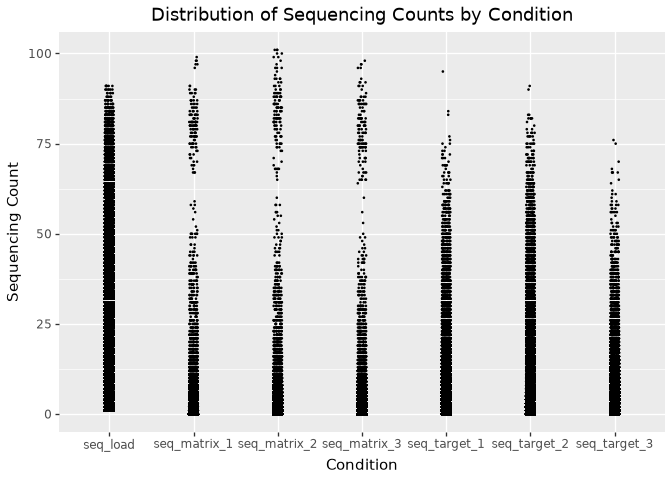
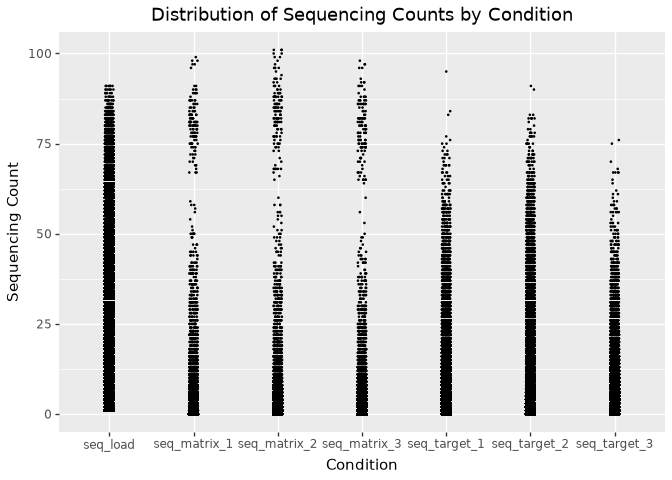
Build site from Quarto source

diff --git a/docs/blogs/DEL_Model/DEL_modelling_Part_2.html b/docs/blogs/DEL_Model/DEL_modelling_Part_2.html
@@ -189,6 +189,7 @@ window.Quarto = {
   <ul class="collapse">
   <li><a href="#state-the-causal-assumptions-dag-first" id="toc-state-the-causal-assumptions-dag-first" class="nav-link" data-scroll-target="#state-the-causal-assumptions-dag-first">State the causal assumptions (DAG first)</a></li>
   </ul></li>
+  <li><a href="#references" id="toc-references" class="nav-link" data-scroll-target="#references">References:</a></li>
   </ul>
 </nav>
     </div>
@@ -269,7 +270,7 @@ Compare candidate models using posterior predictive checks and, where useful, WA
 Once a model is both causally coherent and predictively adequate, use the posterior to interpret target-binding propensity, uncertainty, and causal contrasts justified by the DAG.</p></li>
 </ol>
 <section id="state-the-causal-assumptions-dag-first" class="level3">
-<h3 class="anchored">State the causal assumptions (DAG first)</h3>
+<h3 class="anchored" data-anchor-id="state-the-causal-assumptions-dag-first">State the causal assumptions (DAG first)</h3>
 <p>The first step in the Bayesian workflow is to make the causal assumptions explicit as a directed acyclic graph (DAG). In our DAG, <strong>an observation is represented as a square node</strong>, <strong>a latent variable (unobserved) as a circle</strong>, and <strong>causal relationships are represented as directed edges between nodes</strong>. We build the DAG incrementally, starting from what is measured and then introducing the latent quantities needed to explain it.</p>
 <p>For a single compound, the experiment yields three observed counts:</p>
 <ul>
@@ -341,7 +342,7 @@ A DAG does not guarantee valid inference. It only specifies the assumed causal s
 </div>
 </div>
 <section id="which-variables-should-and-should-not-be-conditioned-on" class="level4">
-<h4 class="anchored">Which variables should and should not be conditioned on?</h4>
+<h4 class="anchored" data-anchor-id="which-variables-should-and-should-not-be-conditioned-on">Which variables should and should not be conditioned on?</h4>
 <p>Our goal is to infer the target-binding propensity <span style="color:#bf616a"><span class="math inline">\(s\)</span></span>. To do this, we need to understand how information about <span style="color:#bf616a"><span class="math inline">\(s\)</span></span> flows through the DAG. This is where the concepts of <strong>path</strong>, <strong>open and closed paths</strong>, <strong>four elemental confounds</strong> (as described by McElreath - second edition of statistical rethinking, Figure 6.6) come in.</p>
 <section id="what-is-a-path-in-a-dag" class="level5">
 <h5 class="anchored" data-anchor-id="what-is-a-path-in-a-dag">What is a path in a DAG?</h5>
@@ -468,7 +469,7 @@ Figure&nbsp;5: Fork example DAG.
 </figcaption>
 </figure>
 </div>
-<div id="39656b99" class="cell" data-execution_count="1">
+<div id="f65ed839" class="cell" data-execution_count="1">
 <details class="code-fold">
 <summary>Code</summary>
 <div class="code-copy-outer-scaffold"><div class="sourceCode cell-code" id="cb1"><pre class="sourceCode python code-with-copy"><code class="sourceCode python"><span id="cb1-1"><a href="#cb1-1" aria-hidden="true" tabindex="-1"></a><span class="im">import</span> numpy <span class="im">as</span> np</span>
@@ -571,7 +572,7 @@ Figure&nbsp;5: Fork example DAG.
 <h5 class="anchored" data-anchor-id="summary-of-the-simulated-data">Summary of the simulated data</h5>
 <p>Let’s plot the simulated data to see the associations between the variables.</p>
 <p>Starting with the raw association between Umbrella and GettingWet:</p>
-<div id="73e998bf" class="cell" data-execution_count="2">
+<div id="207b3a63" class="cell" data-execution_count="2">
 <details class="code-fold">
 <summary>Code</summary>
 <div class="code-copy-outer-scaffold"><div class="sourceCode cell-code" id="cb2"><pre class="sourceCode python code-with-copy"><code class="sourceCode python"><span id="cb2-1"><a href="#cb2-1" aria-hidden="true" tabindex="-1"></a><span class="im">import</span> pandas <span class="im">as</span> pd</span>
@@ -651,7 +652,7 @@ Figure&nbsp;5: Fork example DAG.
 </div>
 </div>
 <p>And, stratified association by Weather, that show what happens after blocking the backdoor path:</p>
-<div id="bec71f7e" class="cell" data-execution_count="3">
+<div id="ab010378" class="cell" data-execution_count="3">
 <details class="code-fold">
 <summary>Code</summary>
 <div class="code-copy-outer-scaffold"><div class="sourceCode cell-code" id="cb3"><pre class="sourceCode python code-with-copy"><code class="sourceCode python"><span id="cb3-1"><a href="#cb3-1" aria-hidden="true" tabindex="-1"></a>strat_counts <span class="op">=</span> (</span>
@@ -755,7 +756,7 @@ Figure&nbsp;6: Association between carrying an umbrella and getting wet.
 <p>The priors are weakly informative Normal(0, 2) distributions on each coefficient, which keep the logit-scale effects within a plausible range (<span class="math inline">\(\pm 4\)</span>) while placing no strong prior preference on direction:</p>
 <p><span class="math display">\[ \alpha \sim \text{Normal}(0, 2), \quad \beta_{\text{umbrella}} \sim \text{Normal}(0, 2), \quad \beta_{\text{weather}} \sim \text{Normal}(0, 2) \]</span></p>
 <p>Both models are fitted via NUTS (No-U-Turn Sampler) using Pyro. The key quantity of interest is <span class="math inline">\(\beta_{\text{umbrella}}\)</span>: comparing its posterior between the two models shows how much of the raw umbrella–wet association disappears once weather is held fixed.</p>
-<div id="afd0855b" class="cell" data-execution_count="4">
+<div id="e62c69fe" class="cell" data-execution_count="4">
 <details class="code-fold">
 <summary>Code</summary>
 <div class="code-copy-outer-scaffold"><div class="sourceCode cell-code" id="cb4"><pre class="sourceCode python code-with-copy"><code class="sourceCode python"><span id="cb4-1"><a href="#cb4-1" aria-hidden="true" tabindex="-1"></a><span class="im">import</span> warnings</span>
@@ -1226,7 +1227,7 @@ Figure&nbsp;9: One-sided sensitivity analysis: higher assumed hidden bias shifts
 </figcaption>
 </figure>
 </div>
-<div id="002234fa" class="cell" data-execution_count="5">
+<div id="563d1ba4" class="cell" data-execution_count="5">
 <details class="code-fold">
 <summary>Code</summary>
 <div class="code-copy-outer-scaffold"><div class="sourceCode cell-code" id="cb6"><pre class="sourceCode python code-with-copy"><code class="sourceCode python"><span id="cb6-1"><a href="#cb6-1" aria-hidden="true" tabindex="-1"></a><span class="im">import</span> numpy <span class="im">as</span> np</span>
@@ -1368,7 +1369,7 @@ Figure&nbsp;10: Sensitivity analysis for umbrella example
 <p>For each observed pair <span class="math inline">\((U_i, G_i)\)</span>, how likely is this observation if the hidden weather state was dry, and how likely is it if the hidden weather state was rainy? It then averages those two possibilities according to the estimated probability of each weather state.</p>
 <p>Because Weather is never observed, the model must infer it entirely from the joint pattern of Umbrella and GettingWet. That means the <strong>result depends strongly on the assumed model form, the priors, and the assumption that a binary latent Weather variable is a reasonable representation of the hidden common cause</strong>.</p>
 <p><span class="highlight-key-point">So the latent variable model gives us a more mechanistic version of the hidden-confounding story, but it is not assumption-free. The sensitivity analysis is weaker but more transparent; the latent variable model is more structural but more model-dependent.</span></p>
-<div id="de209ea6" class="cell" data-execution_count="6">
+<div id="87ce261a" class="cell" data-execution_count="6">
 <details class="code-fold">
 <summary>Code</summary>
 <div class="code-copy-outer-scaffold"><div class="sourceCode cell-code" id="cb7"><pre class="sourceCode python code-with-copy"><code class="sourceCode python"><span id="cb7-1"><a href="#cb7-1" aria-hidden="true" tabindex="-1"></a><span class="kw">def</span> latent_weather_model(umbrella, wet):</span>
@@ -1748,7 +1749,7 @@ findfont: Generic family 'serif' not found because none of the following familie
 <div class="callout-body-container callout-body">
 <p>The weak identification we saw above is not unique to latent-variable models. It belongs to a broader class of difficulties that arise whenever the data and model structure are not informative enough to pin down a parameter’s value. This can happen because of a modelling mistake, but it also occurs in perfectly correct models.</p>
 <p>A practical signal of weak identification is that the posterior looks a lot like the prior. If the data carry little information about a parameter, Bayesian updating has little to update, and the posterior will closely track whatever prior we started with. Comparing the two is therefore a useful diagnostic: a posterior that remains wide and prior-shaped is not a sign that something went wrong, it is the correct answer to the question we asked. But it is also an invitation to ask a sharper question, <strong>collect more data</strong>, or reconsider whether the parameter is estimable at all given the available evidence.</p>
-<div id="a85de179" class="cell" data-execution_count="7">
+<div id="18025ad6" class="cell" data-execution_count="7">
 <details class="code-fold">
 <summary>Code</summary>
 <div class="code-copy-outer-scaffold"><div class="sourceCode cell-code" id="cb9"><pre class="sourceCode python code-with-copy"><code class="sourceCode python"><span id="cb9-1"><a href="#cb9-1" aria-hidden="true" tabindex="-1"></a>rng_ident <span class="op">=</span> np.random.default_rng(<span class="dv">42</span>)</span>
@@ -2137,7 +2138,7 @@ Figure&nbsp;15: Pipe example DAG.
 <p><span class="math display">\[\text{True total effect of Exercise (Exercise} \rightarrow \text{Blood Pressure)} = 0.5 \times (-2) = -1 \text{ mmHg}\]</span></p>
 <p><span class="math display">\[\text{True direct effect of Exercise (Exercise} \rightarrow \text{Blood Pressure | WeightLoss)} = 0\]</span></p>
 <p><span class="math display">\[\text{True mediated path (WeightLoss} \rightarrow \text{Blood Pressure | Exercise)} = -2 \text{ mmHg per unit}\]</span></p>
-<div id="718623cc" class="cell" data-execution_count="8">
+<div id="32117f97" class="cell" data-execution_count="8">
 <details class="code-fold">
 <summary>Code</summary>
 <div class="code-copy-outer-scaffold"><div class="sourceCode cell-code" id="cb11"><pre class="sourceCode python code-with-copy"><code class="sourceCode python"><span id="cb11-1"><a href="#cb11-1" aria-hidden="true" tabindex="-1"></a><span class="co"># Data-generating process </span></span>
@@ -2212,7 +2213,7 @@ Figure&nbsp;15: Pipe example DAG.
 <section id="summary-of-the-simulated-data-1" class="level5">
 <h5 class="anchored" data-anchor-id="summary-of-the-simulated-data-1">Summary of the simulated data</h5>
 <p>Let’s plot the simulated data to see the associations between the variables.</p>
-<div id="15babe9e" class="cell" data-execution_count="9">
+<div id="eb79b126" class="cell" data-execution_count="9">
 <details class="code-fold">
 <summary>Code</summary>
 <div class="code-copy-outer-scaffold"><div class="sourceCode cell-code" id="cb12"><pre class="sourceCode python code-with-copy"><code class="sourceCode python"><span id="cb12-1"><a href="#cb12-1" aria-hidden="true" tabindex="-1"></a><span class="im">from</span> plotnine <span class="im">import</span> geom_jitter, geom_boxplot, geom_smooth, scale_color_manual, scale_fill_manual, theme_minimal, geom_point</span>
@@ -2321,7 +2322,7 @@ Figure&nbsp;15: Pipe example DAG.
 <p><span class="math display">\[\text{BP}_i \sim \mathcal{N}(\mu_i,\, \sigma)\]</span></p>
 <p>In Model 1, <span class="math inline">\(\beta_{\text{ex}}\)</span> captures the <strong>total effect</strong> of exercise: that is, everything that reaches blood pressure through any path, including through weight loss.</p>
 <p>In Model 2, conditioning on <code>WeightLoss</code> blocks the mediated path, so <span class="math inline">\(\beta_{\text{ex}}\)</span> estimates only the <strong>direct effect</strong> that bypasses the mediator, and <span class="math inline">\(\beta_{\text{wl}}\)</span> isolates the weight-loss-to-blood-pressure relationship.</p>
-<div id="4ca6b4cc" class="cell" data-execution_count="10">
+<div id="cf5c8189" class="cell" data-execution_count="10">
 <details class="code-fold">
 <summary>Code</summary>
 <div class="code-copy-outer-scaffold"><div class="sourceCode cell-code" id="cb13"><pre class="sourceCode python code-with-copy"><code class="sourceCode python"><span id="cb13-1"><a href="#cb13-1" aria-hidden="true" tabindex="-1"></a><span class="co"># Model 1: total effect (no conditioning on WeightLoss) </span></span>
@@ -2357,7 +2358,7 @@ Figure&nbsp;15: Pipe example DAG.
 <span id="cb13-31"><a href="#cb13-31" aria-hidden="true" tabindex="-1"></a>post_direct_pipe <span class="op">=</span> run_pipe_mcmc(direct_effect_model, ex_t, wl_t, bp_t)</span></code></pre></div><button title="Copy to Clipboard" class="code-copy-button"><i class="bi"></i></button></div>
 </details>
 </div>
-<div id="d4a2c1a6" class="cell" data-execution_count="11">
+<div id="5cf58986" class="cell" data-execution_count="11">
 <details class="code-fold">
 <summary>Code</summary>
 <div class="code-copy-outer-scaffold"><div class="sourceCode cell-code" id="cb14"><pre class="sourceCode python code-with-copy"><code class="sourceCode python"><span id="cb14-1"><a href="#cb14-1" aria-hidden="true" tabindex="-1"></a>draws_pipe <span class="op">=</span> {</span>
@@ -2710,7 +2711,7 @@ Figure&nbsp;17: Collider example DAG.
 <span id="cb17-2"><a href="#cb17-2" aria-hidden="true" tabindex="-1"></a>admission_threshold <span class="op">=</span> np.quantile(admission_score, <span class="fl">0.8</span>)</span>
 <span id="cb17-3"><a href="#cb17-3" aria-hidden="true" tabindex="-1"></a>admitted <span class="op">=</span> (admission_score <span class="op">&gt;=</span> admission_threshold).astype(<span class="bu">int</span>)</span></code></pre></div><button title="Copy to Clipboard" class="code-copy-button"><i class="bi"></i></button></div>
 <p>Here is the full population data-generating process with <code>Admitted</code> as a collider:</p>
-<div id="e377a214" class="cell" data-execution_count="12">
+<div id="e05fddd9" class="cell" data-execution_count="12">
 <details class="code-fold">
 <summary>Code</summary>
 <div class="code-copy-outer-scaffold"><div class="sourceCode cell-code" id="cb18"><pre class="sourceCode python code-with-copy"><code class="sourceCode python"><span id="cb18-1"><a href="#cb18-1" aria-hidden="true" tabindex="-1"></a><span class="co"># Full population data-generating process </span></span>
@@ -2788,7 +2789,7 @@ Figure&nbsp;17: Collider example DAG.
 <section id="summary-of-the-simulated-data-2" class="level5">
 <h5 class="anchored" data-anchor-id="summary-of-the-simulated-data-2">Summary of the simulated data</h5>
 <p>Let’s plot the relationship between <code>Smart</code> and <code>Athletic</code> in the full population:</p>
-<div id="9d7504f0" class="cell" data-execution_count="13">
+<div id="94f270a2" class="cell" data-execution_count="13">
 <details class="code-fold">
 <summary>Code</summary>
 <div class="code-copy-outer-scaffold"><div class="sourceCode cell-code" id="cb19"><pre class="sourceCode python code-with-copy"><code class="sourceCode python"><span id="cb19-1"><a href="#cb19-1" aria-hidden="true" tabindex="-1"></a><span class="im">from</span> plotnine <span class="im">import</span> (</span>
@@ -2842,7 +2843,7 @@ Figure&nbsp;17: Collider example DAG.
 </div>
 </div>
 <p>Now suppose we only look at admitted students. This is equivalent to conditioning on the collider <code>Admitted</code>.</p>
-<div id="619b94de" class="cell" data-execution_count="14">
+<div id="71ab5fb7" class="cell" data-execution_count="14">
 <details class="code-fold">
 <summary>Code</summary>
 <div class="code-copy-outer-scaffold"><div class="sourceCode cell-code" id="cb20"><pre class="sourceCode python code-with-copy"><code class="sourceCode python"><span id="cb20-1"><a href="#cb20-1" aria-hidden="true" tabindex="-1"></a><span class="co"># ── Selected sample: admitted students only </span></span>
@@ -2850,7 +2851,7 @@ Figure&nbsp;17: Collider example DAG.
 </details>
 </div>
 <p>Among admitted students, <code>Smart</code> and <code>Athletic</code> are no longer independent:</p>
-<div id="4c8903eb" class="cell" data-execution_count="15">
+<div id="eab3f2b3" class="cell" data-execution_count="15">
 <details class="code-fold">
 <summary>Code</summary>
 <div class="code-copy-outer-scaffold"><div class="sourceCode cell-code" id="cb21"><pre class="sourceCode python code-with-copy"><code class="sourceCode python"><span id="cb21-1"><a href="#cb21-1" aria-hidden="true" tabindex="-1"></a><span class="co"># Calculate the correlation</span></span>
@@ -2920,7 +2921,7 @@ Figure&nbsp;17: Collider example DAG.
 <p><span class="math display">\[\text{Athletic}_i \sim \mathcal{N}(\mu_i,\, \sigma)\]</span></p>
 <p>This model uses the full population but includes the collider as a covariate. The coefficient <span class="math inline">\(\beta_{\text{smart}}\)</span> is now a conditional association: how <code>Athletic</code> changes with <code>Smart</code> among observations with the same value of <code>Admitted</code>, averaged across the admitted and not-admitted strata by the model.</p>
 <p>If the collider logic is correct, the posterior for <span class="math inline">\(\beta_{\text{smart}}\)</span> should move away from zero in the conditioned model, even though <code>Smart</code> has no causal effect on <code>Athletic</code>.</p>
-<div id="3b8b0dce" class="cell" data-execution_count="16">
+<div id="9645c07e" class="cell" data-execution_count="16">
 <details class="code-fold">
 <summary>Code</summary>
 <div class="code-copy-outer-scaffold"><div class="sourceCode cell-code" id="cb22"><pre class="sourceCode python code-with-copy"><code class="sourceCode python"><span id="cb22-1"><a href="#cb22-1" aria-hidden="true" tabindex="-1"></a>smart_full_t <span class="op">=</span> torch.tensor(population_df[<span class="st">"Smart"</span>].values, dtype<span class="op">=</span>torch.float32)</span>
@@ -2958,7 +2959,7 @@ Figure&nbsp;17: Collider example DAG.
 <span id="cb22-33"><a href="#cb22-33" aria-hidden="true" tabindex="-1"></a>post_adjusted_collider <span class="op">=</span> run_collider_mcmc(smart_full_t, athletic_full_t, admitted_full_t)</span></code></pre></div><button title="Copy to Clipboard" class="code-copy-button"><i class="bi"></i></button></div>
 </details>
 </div>
-<div id="02305c98" class="cell" data-execution_count="17">
+<div id="e2f35c1d" class="cell" data-execution_count="17">
 <details class="code-fold">
 <summary>Code</summary>
 <div class="code-copy-outer-scaffold"><div class="sourceCode cell-code" id="cb23"><pre class="sourceCode python code-with-copy"><code class="sourceCode python"><span id="cb23-1"><a href="#cb23-1" aria-hidden="true" tabindex="-1"></a>draws_collider <span class="op">=</span> {</span>
@@ -3259,7 +3260,7 @@ Figure&nbsp;19: Descendant example DAG.
 </figcaption>
 </figure>
 </div>
-<div id="b3c85487" class="cell" data-execution_count="18">
+<div id="af9c822b" class="cell" data-execution_count="18">
 <details class="code-fold">
 <summary>Code</summary>
 <div class="code-copy-outer-scaffold"><div class="sourceCode cell-code" id="cb25"><pre class="sourceCode python code-with-copy"><code class="sourceCode python"><span id="cb25-1"><a href="#cb25-1" aria-hidden="true" tabindex="-1"></a><span class="co"># Descendant example: database membership as a noisy proxy for admission</span></span>
@@ -3365,6 +3366,10 @@ Figure&nbsp;19: Descendant example DAG.
 </div>
 </div>
 </div>
+</div>
+</div>
+</div>
+</section>
 <section id="how-do-path-structures-guide-conditioning-decisions-for-s" class="level5">
 <h5 class="anchored" data-anchor-id="how-do-path-structures-guide-conditioning-decisions-for-s">How do path structures guide conditioning decisions for <span style="color:#bf616a"><span class="math inline">\(s\)</span></span>?</h5>
 <p>Here, one important role of the DAG is to help us decide which variables it makes sense to condition on, and which ones we should avoid conditioning on, when estimating the target-binding propensity <span style="color:#bf616a"><span class="math inline">\(s\)</span></span>. To do this, we follow the recipe suggested by McElreath in Chapter 6 of the second edition of <em>Statistical Rethinking</em>:</p>
@@ -3378,6 +3383,9 @@ Figure&nbsp;19: Descendant example DAG.
 <p>For the DEL model, this means we should not ask only whether a variable is predictive of <span style="color:#d08770"><span class="math inline">\(C_t\)</span></span>. We should ask what role it plays in the DAG. A variable can be predictive because it is a cause, a mediator, a confounder, or a collider. These cases imply different modelling choices.</p>
 <p><span class="highlight-key-point">The DAG turns variable selection into a causal question: condition on variables that block unwanted backdoor paths, avoid conditioning on colliders, and condition on mediators only when the target estimand is a direct effect.</span></p>
 </section>
+</section>
+</section>
+</section>
 <section id="references" class="level2">
 <h2 class="anchored" data-anchor-id="references">References:</h2>
 <ul>
@@ -3388,13 +3396,6 @@ Figure&nbsp;19: Descendant example DAG.
 </ul>
 
 
-</section>
-</div>
-</div>
-</div>
-</section>
-</section>
-</section>
 </section>
 
 </main> <!-- /main -->

diff --git a/docs/blogs/DEL_Model/DEL_modelling_Part_1.html b/docs/blogs/DEL_Model/DEL_modelling_Part_1.html
@@ -223,7 +223,7 @@ window.Quarto = {
 </header>
 
 
-<div id="754a57d4" class="cell" data-execution_count="1">
+<div id="031d73c4" class="cell" data-execution_count="1">
 <details class="code-fold">
 <summary>Code</summary>
 <div class="code-copy-outer-scaffold"><div class="sourceCode cell-code" id="cb1"><pre class="sourceCode python code-with-copy"><code class="sourceCode python"><span id="cb1-1"><a href="#cb1-1" aria-hidden="true" tabindex="-1"></a><span class="im">import</span> warnings</span>
@@ -761,7 +761,7 @@ X_i \sim \text{Binomial}(N,p_i)\]</span></p>
 <p><span class="math display">\[p^{(N)} \sim \text{Beta}(a, b^{(N)})\]</span></p>
 <p>The superscript <span class="math inline">\((N)\)</span> does <strong>not</strong> index a barcode. It indicates that we are considering a whole sequence of random variables, one for each sequencing depth <span class="math inline">\(N\)</span>.</p>
 <p>So when <span class="math inline">\(N\)</span> changes, the prior changes as well. In particular, the second Beta parameter grows with <span class="math inline">\(N\)</span>, which pushes typical values of <span class="math inline">\(p^{(N)}\)</span> toward zero. This is the scaling we want in a rare-event setting, where each individual barcode should occupy only a tiny fraction of the total reads even as the total read depth becomes large.</p>
-<div id="a64dcffc" class="cell" data-execution_count="2">
+<div id="1aac8646" class="cell" data-execution_count="2">
 <details class="code-fold">
 <summary>Code</summary>
 <div class="code-copy-outer-scaffold"><div class="sourceCode cell-code" id="cb2"><pre class="sourceCode python code-with-copy"><code class="sourceCode python"><span id="cb2-1"><a href="#cb2-1" aria-hidden="true" tabindex="-1"></a><span class="im">import</span> numpy <span class="im">as</span> np</span>
@@ -861,7 +861,7 @@ X_i \sim \text{Binomial}(N,p_i)\]</span></p>
 <p>So the scaling is not arbitrary. It makes the prior on <span class="math inline">\(p^{(N)}\)</span> shift toward smaller probabilities as sequencing depth increases, while the induced prior on <span class="math inline">\(\lambda^{(N)} = Np^{(N)}\)</span> stays on a stable, interpretable count scale.</p>
 <p><span class="highlight-key-point">This is why the scaling <span class="math inline">\(b^{(N)} = \eta N\)</span> matters: it prevents the implied count scale from blowing up with <span class="math inline">\(N\)</span> and sets up the next derivation, where the prior on <span class="math inline">\(p^{(N)}\)</span> becomes a Gamma prior on <span class="math inline">\(\lambda^{(N)}\)</span>.</span></p>
 <p>The plot below is meant only to visualise this scaling. For the concrete example above with <span class="math inline">\(a = 2\)</span> and <span class="math inline">\(\eta = 1\)</span>, it compares the priors induced by two sequencing depths, <span class="math inline">\(N = 10^3\)</span> and <span class="math inline">\(N = 10^6\)</span>. As depth increases, the Beta density shifts sharply toward smaller values of <span class="math inline">\(p\)</span>, so that the corresponding Poisson-scale quantity <span class="math inline">\(\lambda^{(N)} = Np^{(N)}\)</span> remains on a stable count scale rather than diverging with <span class="math inline">\(N\)</span>.</p>
-<div id="f6b61e4c" class="cell" data-execution_count="3">
+<div id="a5c15637" class="cell" data-execution_count="3">
 <details class="code-fold">
 <summary>Code</summary>
 <div class="code-copy-outer-scaffold"><div class="sourceCode cell-code" id="cb3"><pre class="sourceCode python code-with-copy"><code class="sourceCode python"><span id="cb3-1"><a href="#cb3-1" aria-hidden="true" tabindex="-1"></a><span class="im">import</span> numpy <span class="im">as</span> np</span>
@@ -1061,7 +1061,7 @@ d\lambda.\]</span></p>
 <p>For a concrete example, we use data from the <a href="https://arxiv.org/abs/2410.08938">KinDEL paper</a>. You can learn more about the resource <a href="https://icml.cc/virtual/2025/poster/45034">here</a> and access the data <a href="https://github.com/insitro/kindel">here</a>.</p>
 <p>KinDEL is one of the first large public DEL datasets designed to support machine-learning research in drug discovery. The resource contains approximately <strong>81 million small molecules</strong> screened against <strong>two kinase targets (MAPK14 and DDR1)</strong>, with accompanying benchmark tasks aimed at predictive hit identification and DEL denoising. Beyond raw count data, KinDEL also includes <strong>replicate experiments</strong> and biophysical validation data (on-DNA and off-DNA assays), making it useful for studying how well models recover true binding signals from noisy DEL measurements.</p>
 <p>We load only a subset of the data to keep the example simple and fast to run. In particular, we use the data for the DDR1 target from the first split.</p>
-<div id="22ea65b9" class="cell" data-execution_count="4">
+<div id="c3340265" class="cell" data-execution_count="4">
 <details class="code-fold">
 <summary>Code</summary>
 <div class="code-copy-outer-scaffold"><div class="sourceCode cell-code" id="cb4"><pre class="sourceCode python code-with-copy"><code class="sourceCode python"><span id="cb4-1"><a href="#cb4-1" aria-hidden="true" tabindex="-1"></a><span class="co"># data = pd.read_parquet("data/df_train_ddr1_split1_random.parquet")</span></span>
@@ -1207,7 +1207,7 @@ d\lambda.\]</span></p>
 <section id="basic-exploratory-data-analysis-eda" class="level3">
 <h3 class="anchored" data-anchor-id="basic-exploratory-data-analysis-eda">Basic Exploratory Data Analysis (EDA)</h3>
 <p>We begin with a simple view of sequencing counts by condition.</p>
-<div id="696f5dca" class="cell" data-execution_count="5">
+<div id="7c499eef" class="cell" data-execution_count="5">
 <details class="code-fold">
 <summary>Code</summary>
 <div class="code-copy-outer-scaffold"><div class="sourceCode cell-code" id="cb5"><pre class="sourceCode python code-with-copy"><code class="sourceCode python"><span id="cb5-1"><a href="#cb5-1" aria-hidden="true" tabindex="-1"></a>data_seq_counts <span class="op">=</span> data.melt(id_vars<span class="op">=</span>[<span class="st">'molecule_hash'</span>], value_vars<span class="op">=</span>[<span class="st">'seq_target_1'</span>, <span class="st">'seq_target_2'</span>, <span class="st">'seq_target_3'</span>, <span class="st">'seq_matrix_1'</span>, <span class="st">'seq_matrix_2'</span>, <span class="st">'seq_matrix_3'</span>, <span class="st">'seq_load'</span>], value_name<span class="op">=</span><span class="st">'seq_count'</span>, var_name<span class="op">=</span><span class="st">'condition'</span>)</span>
@@ -1287,7 +1287,7 @@ Figure&nbsp;5: Most molecules have very low counts, indicating sparse DEL data.
 </div>
 </div>
 </div>
-<div id="ad93394e" class="cell" data-execution_count="6">
+<div id="2a3b58a6" class="cell" data-execution_count="6">
 <details class="code-fold">
 <summary>Code</summary>
 <div class="code-copy-outer-scaffold"><div class="sourceCode cell-code" id="cb6"><pre class="sourceCode python code-with-copy"><code class="sourceCode python"><span id="cb6-1"><a href="#cb6-1" aria-hidden="true" tabindex="-1"></a><span class="co"># Plot ECDF faceted by condition, and add vertical line at the 85% quantile for each</span></span>
@@ -1388,7 +1388,7 @@ Figure&nbsp;7: Discrete horizontal bands. The plot shows how discrete, integer s
 </figure>
 </div>
 <p>We next plot the frequency of each sequencing count value (<span class="math inline">\(\leq 20\)</span>) for all conditions. This directly shows why the bands appear: thousands of molecules share the same low integer count.</p>
-<div id="6405fe31" class="cell" data-execution_count="7">
+<div id="7219a576" class="cell" data-execution_count="7">
 <details class="code-fold">
 <summary>Code</summary>
 <div class="code-copy-outer-scaffold"><div class="sourceCode cell-code" id="cb7"><pre class="sourceCode python code-with-copy"><code class="sourceCode python"><span id="cb7-1"><a href="#cb7-1" aria-hidden="true" tabindex="-1"></a><span class="co"># Using the already-melted data_ecdf from earlier</span></span>
@@ -1445,7 +1445,7 @@ Figure&nbsp;9: Each experimental selection (both <em>matrix</em> and <em>target<
 </figure>
 </div>
 <p>To assess reproducibility, we compare replicate-level sequencing proportions for both matrix and target selections. For each replicate, molecule counts are normalised by the replicate total and then compared pairwise. These comparisons are summarised in three complementary ways: scatter plots (<a href="#fig-replicate-scatter" class="quarto-xref">Figure&nbsp;10</a>) show pattern shape and deviation from the <span class="math inline">\(y=x\)</span> line, a Spearman correlation heatmap (<a href="#fig-replicate-heatmap" class="quarto-xref">Figure&nbsp;11</a>) provides a compact quantitative summary of pairwise agreement, and a replicate-support plot (<a href="#fig-replicate-support" class="quarto-xref">Figure&nbsp;12</a>) shows how often molecules are observed at all across replicates.</p>
-<div id="2967242b" class="cell" data-execution_count="8">
+<div id="b775bdb3" class="cell" data-execution_count="8">
 <details class="code-fold">
 <summary>Code</summary>
 <div class="code-copy-outer-scaffold"><div class="sourceCode cell-code" id="cb8"><pre class="sourceCode python code-with-copy"><code class="sourceCode python"><span id="cb8-1"><a href="#cb8-1" aria-hidden="true" tabindex="-1"></a>data_seq_counts_matrix <span class="op">=</span> data[[<span class="st">'seq_matrix_1'</span>, <span class="st">'seq_matrix_2'</span>, <span class="st">'seq_matrix_3'</span>]]</span>
@@ -1617,7 +1617,7 @@ Figure&nbsp;10: Correlations between replicates for the matrix and target select
 </div>
 </div>
 <p>To complement <a href="#fig-replicate-scatter" class="quarto-xref">Figure&nbsp;10</a>, we summarise replicate agreement with a Spearman correlation matrix. Spearman correlation is rank-based, so it asks whether molecules ranked high in one replicate also tend to rank high in another, without assuming a strictly linear relationship.</p>
-<div id="5ae1808a" class="cell" data-execution_count="9">
+<div id="073bda40" class="cell" data-execution_count="9">
 <details class="code-fold">
 <summary>Code</summary>
 <div class="code-copy-outer-scaffold"><div class="sourceCode cell-code" id="cb9"><pre class="sourceCode python code-with-copy"><code class="sourceCode python"><span id="cb9-1"><a href="#cb9-1" aria-hidden="true" tabindex="-1"></a><span class="co"># collect replicate counts</span></span>
@@ -1671,7 +1671,7 @@ Figure&nbsp;11: Spearman correlation matrix across matrix and target replicates 
 </figure>
 </div>
 <p>One more view is useful here: for each molecule, we count in how many of the three replicate experiments the sequencing count is greater than zero. This gives a simple measure of <strong>replicate support</strong>. A molecule detected in all three replicates has much stronger support than a molecule detected in only one replicate, while a molecule with zero counts in all replicates is a clear example of dropout in that condition. Framing the data this way makes the prevalence of dropout immediately visible and complements the pairwise correlation plots above, which show agreement only among the molecules that are observed.</p>
-<div id="8a581af5" class="cell" data-execution_count="10">
+<div id="57cd0faf" class="cell" data-execution_count="10">
 <details class="code-fold">
 <summary>Code</summary>
 <div class="code-copy-outer-scaffold"><div class="sourceCode cell-code" id="cb10"><pre class="sourceCode python code-with-copy"><code class="sourceCode python"><span id="cb10-1"><a href="#cb10-1" aria-hidden="true" tabindex="-1"></a>replicate_support <span class="op">=</span> pd.concat(</span>
@@ -1807,7 +1807,7 @@ Figure&nbsp;13: Comparing pre- and post-selection counts allows us to account fo
 </div>
 </div>
 </div>
-<div id="b98c7954" class="cell" data-execution_count="11">
+<div id="51d307b3" class="cell" data-execution_count="11">
 <details class="code-fold">
 <summary>Code</summary>
 <div class="code-copy-outer-scaffold"><div class="sourceCode cell-code" id="cb11"><pre class="sourceCode python code-with-copy"><code class="sourceCode python"><span id="cb11-1"><a href="#cb11-1" aria-hidden="true" tabindex="-1"></a>rel <span class="op">=</span> data.copy()</span>
@@ -1879,7 +1879,7 @@ Molecules above <span class="math inline">\(y=x\)</span> have higher post-select
 </div>
 <p><a href="#fig-pre-post-scatter" class="quarto-xref">Figure&nbsp;14</a> shows the relationship between pre- and post-selection counts for the matrix and target selection conditions. We can also provide a concise quantitative summary of how strongly these variables move together.</p>
 <p>Again, Spearman correlation is a good choice since it is rank-based, asking whether molecules with higher <code>seq_load</code> also tend to have higher matrix or target counts, without assuming a linear relationship. The Spearman correlation matrix therefore complements <a href="#fig-pre-post-scatter" class="quarto-xref">Figure&nbsp;14</a> by turning the visual trends into directly comparable pairwise association measures.</p>
-<div id="b8c6353f" class="cell" data-execution_count="12">
+<div id="6de8591c" class="cell" data-execution_count="12">
 <details class="code-fold">
 <summary>Code</summary>
 <div class="code-copy-outer-scaffold"><div class="sourceCode cell-code" id="cb12"><pre class="sourceCode python code-with-copy"><code class="sourceCode python"><span id="cb12-1"><a href="#cb12-1" aria-hidden="true" tabindex="-1"></a><span class="co"># compute the Spearman correlation matrix</span></span>
@@ -1932,7 +1932,7 @@ Figure&nbsp;16: Relationship between matrix and target counts.
 </figcaption>
 </figure>
 </div>
-<div id="a506e113" class="cell" data-execution_count="13">
+<div id="428ae8ad" class="cell" data-execution_count="13">
 <details class="code-fold">
 <summary>Code</summary>
 <div class="code-copy-outer-scaffold"><div class="sourceCode cell-code" id="cb13"><pre class="sourceCode python code-with-copy"><code class="sourceCode python"><span id="cb13-1"><a href="#cb13-1" aria-hidden="true" tabindex="-1"></a>rel_long <span class="op">=</span> pd.concat(</span>
@@ -1967,7 +1967,7 @@ Figure&nbsp;17: Relationship between mean matrix and target replicate counts on 
 <section id="crude-enrichment-relative-to-matrix-background" class="level4">
 <h4 class="anchored" data-anchor-id="crude-enrichment-relative-to-matrix-background">Crude enrichment relative to matrix background</h4>
 <p>Because a molecule can be abundant in the input library and still show non-specific matrix binding, it is useful to combine the previous two ideas into a single diagnostic. A simple way to do that is to plot a crude target-over-matrix enrichment score against pre-selection abundance. This is not a substitute for a probabilistic model, but it provides an intuitive preview of the modelling target.</p>
-<div id="96b98fad" class="cell" data-execution_count="14">
+<div id="c87aef29" class="cell" data-execution_count="14">
 <details class="code-fold">
 <summary>Code</summary>
 <div class="code-copy-outer-scaffold"><div class="sourceCode cell-code" id="cb14"><pre class="sourceCode python code-with-copy"><code class="sourceCode python"><span id="cb14-1"><a href="#cb14-1" aria-hidden="true" tabindex="-1"></a>rel[<span class="st">"log2_target_over_matrix"</span>] <span class="op">=</span> np.log2((rel[<span class="st">"target_mean"</span>] <span class="op">+</span> <span class="dv">1</span>) <span class="op">/</span> (rel[<span class="st">"matrix_mean"</span>] <span class="op">+</span> <span class="dv">1</span>))</span>
@@ -2036,7 +2036,7 @@ Figure&nbsp;18: Crude target-over-matrix enrichment plotted against pre-selectio
 </ul>
 <p><strong>True underdispersion is uncommon</strong>; when variance appears below the mean, it is often due to small-sample noise (e.g., with only a few replicates) rather than a genuinely underdispersed process.</p>
 <p>As seen in <a href="#fig-seq-counts" class="quarto-xref">Figure&nbsp;3</a>, the sequencing count distributions are right-skewed and heavy-tailed. That suggests large variability, but it does not by itself establish overdispersion in the strict statistical sense. To assess that directly, we compare the sample mean and variance across replicates for the matrix and target conditions.</p>
-<div id="4c8f300f" class="cell" data-execution_count="15">
+<div id="ff526171" class="cell" data-execution_count="15">
 <details class="code-fold">
 <summary>Code</summary>
 <div class="code-copy-outer-scaffold"><div class="sourceCode cell-code" id="cb15"><pre class="sourceCode python code-with-copy"><code class="sourceCode python"><span id="cb15-1"><a href="#cb15-1" aria-hidden="true" tabindex="-1"></a><span class="co"># Compute mean and variance for both matrix and target replicates</span></span>